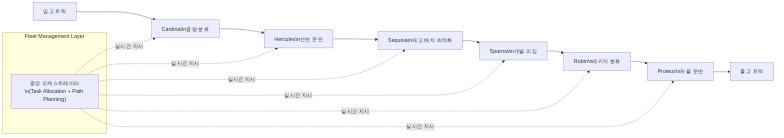
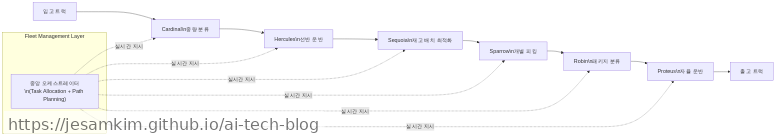
🔖 Add watermark to all diagrams (blog URL, bottom-left)

Changed region(s): [[0.0, 0.8406, 0.4286, 0.9855]]

diff --git a/scripts/generate_diagram.py b/scripts/generate_diagram.py
@@ -21,6 +21,53 @@ logging.basicConfig(
 )
 logger = logging.getLogger("generate_diagram")
 
+WATERMARK_TEXT = "https://jesamkim.github.io/ai-tech-blog"
+
+
+def add_watermark(png_path: str):
+    """PNG 이미지에 워터마크 추가 (좌측 하단, 반투명)"""
+    try:
+        from PIL import Image, ImageDraw, ImageFont
+
+        img = Image.open(png_path).convert("RGBA")
+        w, h = img.size
+
+        # 워터마크 레이어
+        overlay = Image.new("RGBA", img.size, (0, 0, 0, 0))
+        draw = ImageDraw.Draw(overlay)
+
+        # 폰트 크기: 이미지 너비의 ~2.5% (최소 10, 최대 16)
+        font_size = max(10, min(16, int(w * 0.025)))
+        try:
+            font = ImageFont.truetype("/usr/share/fonts/truetype/dejavu/DejaVuSans.ttf", font_size)
+        except (OSError, IOError):
+            try:
+                font = ImageFont.truetype("/usr/share/fonts/dejavu-sans-fonts/DejaVuSans.ttf", font_size)
+            except (OSError, IOError):
+                font = ImageFont.load_default()
+
+        # 텍스트 크기 계산
+        bbox = draw.textbbox((0, 0), WATERMARK_TEXT, font=font)
+        tw, th = bbox[2] - bbox[0], bbox[3] - bbox[1]
+
+        # 좌측 하단, 약간의 패딩
+        x = 8
+        y = h - th - 8
+
+        # 반투명 배경 + 텍스트
+        padding = 4
+        draw.rectangle([x - padding, y - padding, x + tw + padding, y + th + padding],
+                       fill=(255, 255, 255, 160))
+        draw.text((x, y), WATERMARK_TEXT, fill=(80, 80, 80, 200), font=font)
+
+        # 합성 후 저장
+        result = Image.alpha_composite(img, overlay)
+        result = result.convert("RGB")
+        result.save(png_path, "PNG")
+        logger.info("워터마크 추가: %s", png_path)
+    except Exception as e:
+        logger.warning("워터마크 실패 (무시): %s", e)
+
 
 def load_config() -> dict:
     with open(SCRIPTS_DIR / "config.yaml") as f:
@@ -63,6 +110,7 @@ def generate_diagram(
             result = subprocess.run(cmd, capture_output=True, text=True, timeout=60)
             if result.returncode == 0 and output_png.exists():
                 logger.info("mmdc로 다이어그램 생성: %s", output_png)
+                add_watermark(str(output_png))
                 return md_path
             logger.warning("mmdc 실패: %s", result.stderr)
 
@@ -75,6 +123,7 @@ def generate_diagram(
             result = subprocess.run(cmd, capture_output=True, text=True, timeout=120)
             if result.returncode == 0 and output_png.exists():
                 logger.info("npx mmdc로 다이어그램 생성: %s", output_png)
+                add_watermark(str(output_png))
                 return md_path
             logger.warning("npx mmdc 실패: %s", result.stderr)
 
@@ -92,6 +141,7 @@ def generate_diagram(
                 import cairosvg
                 cairosvg.svg2png(bytestring=svg_content, write_to=str(output_png))
                 logger.info("cairosvg로 다이어그램 생성: %s", output_png)
+                add_watermark(str(output_png))
                 return md_path
             except ImportError:
                 # SVG로 저장
